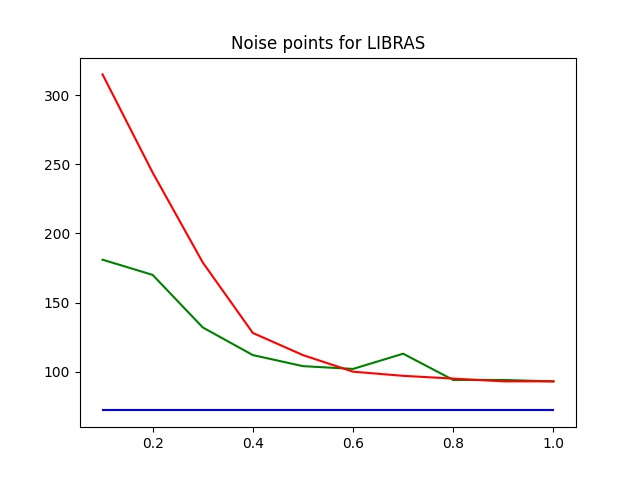
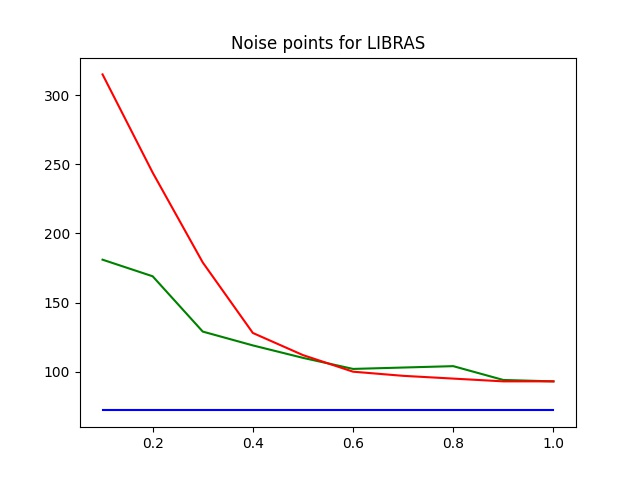
Performance figures

diff --git a/plot_data_factor_variation.py b/plot_data_factor_variation.py
@@ -18,35 +18,64 @@ def data_load(name):
     elif name == 'zoo':
         data = pd.read_csv('Results_small_data_factor/zoo_results_factor.csv')
 
-    epsilon = data.iloc[:, 0].values
-    noise_db = data.iloc[:, 2].values
-    noise_uni = data.iloc[:, 6].values
-    noise_kc = data.iloc[:, 10].values
-    acc_db = data.iloc[:, 3].values
-    acc_uni = data.iloc[:, 7].values
-    acc_kc = data.iloc[:, 11].values
-    return epsilon, noise_db, noise_uni, noise_kc, acc_db, acc_uni, acc_kc
+    factor = data['factor'].values
+    noise_db = data['n_noise_db'].values
+    noise_uni = data['n_noise_dbp_uni'].values
+    noise_kc = data['n_noise_dbp_kg'].values
+    acc_db = data['acc_db'].values
+    acc_uni = data['acc_dbp_uni'].values
+    acc_kc = data['acc_dbp_kg'].values
+    arand_db = data['ARAND_db'].values
+    arand_dbp_uni = data['ARAND_dbp_uni'].values
+    arand_dbp_kg = data['ARAND_dbp_kg'].values
+    amis_db = data['AMIS_db'].values
+    amis_dbp_uni = data['AMIS_dbp_uni'].values
+    amis_dbp_kg = data['AMIS_dbp_kg'].values
+    time_db = data['Exec_time_db'].values
+    time_dbp_uni = data['Exec_time_dbp_uni'].values
+    time_dbp_kg = data['Exec_time_dbp_kg'].values
+
+    return factor, noise_db, noise_uni, noise_kc, acc_db, acc_uni, acc_kc, arand_db, arand_dbp_uni, arand_dbp_kg, \
+           amis_db, amis_dbp_uni, amis_dbp_kg, time_db, time_dbp_uni, time_dbp_kg
 
 
 def main():
     names = 'iris', 'libras', 'mobile', 'seeds', 'spam', 'wine', 'zoo'
     for i in range(len(names)):
         name = names[i]
-        variation, noise_db, noise_uni, noise_kc, acc_db, acc_uni, acc_kc = data_load(name)
+        factor, noise_db, noise_uni, noise_kc, acc_db, acc_uni, acc_kc, arand_db, arand_dbp_uni, arand_dbp_kg, \
+        amis_db, amis_dbp_uni, amis_dbp_kg, time_db, time_dbp_uni, time_dbp_kg = data_load(name)
+
+        # plt.figure()
+        # plt.plot(factor, noise_db, 'b')  # dbscan (blue)
+        # plt.plot(factor, noise_uni, 'g')  # uniform (green)
+        # plt.plot(factor, noise_kc, 'r', )  # k-center (red)
+        # plt.title('Noise points for ' + str(name.upper()))
+        # plt.savefig('Results_small_data_factor/{0}_noise.jpg'.format(name))
 
         plt.figure()
-        plt.plot(variation, noise_db, 'b')  # dbscan (blue)
-        plt.plot(variation, noise_uni, 'g')  # uniform (green)
-        plt.plot(variation, noise_kc, 'r', )  # k-center (red)
-        plt.title('Noise points for ' + str(name.upper()))
-        plt.savefig('Results_small_data_factor/{0}_noise.jpg'.format(name))
+        plt.plot(factor, amis_dbp_uni, 'b')  # dbscan (blue)
+        plt.plot(factor, arand_dbp_uni, 'g')  # uniform (green)
+        plt.plot(factor, amis_dbp_kg, 'b--')  # dbscan (blue)
+        plt.plot(factor, arand_dbp_kg, 'g--')  # uniform (green)
+        # plt.plot(factor, time_dbp_uni, 'r')  # k-center (red)
+        plt.title('DBSCAN++ performance scores for ' + str(name.upper()))
+        plt.savefig('Results_small_data_factor/{0}_perf_score.jpg'.format(name))
 
-        plt.figure()
-        plt.plot(variation, acc_db, 'b')  # dbscan (blue)
-        plt.plot(variation, acc_uni, 'g')  # uniform (green)
-        plt.plot(variation, acc_kc, 'r')  # k-center (red)
-        plt.title('Accuracy Score for ' + str(name.upper()))
-        plt.savefig('Results_small_data_factor/{0}_accu_score.jpg'.format(name))
+        # plt.figure()
+        # plt.plot(factor, amis_dbp_kg, 'b')  # dbscan (blue)
+        # plt.plot(factor, arand_dbp_kg, 'g')  # uniform (green)
+        # # plt.plot(factor, time_dbp_uni, 'r')  # k-center (red)
+        # plt.title('DBSCAN++ K-center performance scores for ' + str(name.upper()))
+        # plt.savefig('Results_small_data_factor/{0}_perf_score_kc.jpg'.format(name))
+
+        # plt.figure()
+        # plt.plot(factor, time_db, 'b')  # dbscan (blue)
+        # plt.plot(factor, time_dbp_kg, 'g')  # uniform (green)
+        # plt.plot(factor, time_dbp_kg/10, 'r')  # k-center (red)
+        # plt.title('DBSCAN++  execution time for ' + str(name.upper()))
+        # plt.savefig('Results_small_data_factor/{0}_time.jpg'.format(name))
+
 
 
 if __name__ == '__main__':

diff --git a/factor_variations.py b/factor_variations.py
@@ -106,20 +106,23 @@ def results_out(dataset_name, data, x, labels_true, eps, listof_attributes, m, n
     exec_time_db = np.zeros(len(factor_range))
     n_clusters_db = np.zeros(len(factor_range))
     n_noise_db = np.zeros(len(factor_range))
-    acc_db = np.zeros(len(factor_range))  # Adjusted Rand Index
-    # amis_db = np.zeros(len(factor_range))  # Adjusted Mutual Information Score
+    acc_db = np.zeros(len(factor_range))
+    arand_db = np.zeros(len(factor_range))  # Adjusted Rand Index
+    amis_db = np.zeros(len(factor_range))  # Adjusted Mutual Information Score
 
     exec_time_dbp_uni = np.zeros(len(factor_range))
     n_clusters_dbp_uni = np.zeros(len(factor_range))
     n_noise_dbp_uni = np.zeros(len(factor_range))
-    acc_dbp_uni = np.zeros(len(factor_range))  # Adjusted Rand Index
-    # amis_dbp_uni = np.zeros(len(factor_range))  # Adjusted Mutual Information Score
+    acc_dbp_uni = np.zeros(len(factor_range))
+    arand_dbp_uni = np.zeros(len(factor_range))  # Adjusted Rand Index
+    amis_dbp_uni = np.zeros(len(factor_range))  # Adjusted Mutual Information Score
 
     exec_time_dbp_kg = np.zeros(len(factor_range))
     n_clusters_dbp_kg = np.zeros(len(factor_range))
     n_noise_dbp_kg = np.zeros(len(factor_range))
-    acc_dbp_kg = np.zeros(len(factor_range))  # Adjusted Rand Index
-    # amis_dbp_kg = np.zeros(len(factor_range))  # Adjusted Mutual Information Score
+    acc_dbp_kg = np.zeros(len(factor_range))
+    arand_dbp_kg = np.zeros(len(factor_range))  # Adjusted Rand Index
+    amis_dbp_kg = np.zeros(len(factor_range))  # Adjusted Mutual Information Score
 
     for i in range(len(factor_range)):
         factor = factor_range[i]
@@ -165,17 +168,20 @@ def results_out(dataset_name, data, x, labels_true, eps, listof_attributes, m, n
         acc_dbp_uni[i] = metrics.accuracy_score(labels_true, labels_dbp_uni)
         acc_dbp_kg[i] = metrics.accuracy_score(labels_true, labels_dbp_kg)
 
-        # amis_db[i] = metrics.adjusted_mutual_info_score(labels_true, labels_db)
-        # amis_dbp_uni[i] = metrics.adjusted_mutual_info_score(labels_true, labels_dbp_uni)
-        # amis_dbp_kg[i] = metrics.adjusted_mutual_info_score(labels_true, labels_dbp_kg)
+        arand_db[i] = metrics.adjusted_rand_score(labels_true, labels_db)
+        arand_dbp_uni[i] = metrics.adjusted_rand_score(labels_true, labels_dbp_uni)
+        arand_dbp_kg[i] = metrics.adjusted_rand_score(labels_true, labels_dbp_kg)
 
-    d = {'factor': factor_range,
-         'n_clusters_db': n_clusters_db, 'n_noise_db': n_noise_db,
-         'acc_db': acc_db,  'Exec_time_db': exec_time_db,
-         'n_clusters_dbp_uni': n_clusters_dbp_uni, 'n_noise_dbp_uni': n_noise_dbp_uni,
-         'acc_dbp_uni': acc_dbp_uni,  'Exec_time_dbp_uni': exec_time_dbp_uni,
-         'n_clusters_dbp_kg': n_clusters_dbp_kg, 'n_noise_dbp_kg': n_noise_dbp_kg,
-         'acc_dbp_kg': acc_dbp_kg,  'Exec_time_dbp_kg': exec_time_dbp_kg}
+        amis_db[i] = metrics.adjusted_mutual_info_score(labels_true, labels_db)
+        amis_dbp_uni[i] = metrics.adjusted_mutual_info_score(labels_true, labels_dbp_uni)
+        amis_dbp_kg[i] = metrics.adjusted_mutual_info_score(labels_true, labels_dbp_kg)
+
+    d = {'factor': factor_range, 'n_clusters_db': n_clusters_db, 'n_noise_db': n_noise_db, 'acc_db' : acc_db,
+         'ARAND_db': arand_db, 'AMIS_db': amis_db, 'Exec_time_db': exec_time_db,
+         'n_clusters_dbp_uni': n_clusters_dbp_uni, 'n_noise_dbp_uni': n_noise_dbp_uni, 'acc_dbp_uni' : acc_dbp_uni,
+         'ARAND_dbp_uni': arand_dbp_uni, 'AMIS_dbp_uni': amis_dbp_uni, 'Exec_time_dbp_uni': exec_time_dbp_uni,
+         'n_clusters_dbp_kg': n_clusters_dbp_kg, 'n_noise_dbp_kg': n_noise_dbp_kg, 'acc_dbp_kg' : acc_dbp_kg,
+         'ARAND_dbp_kg': arand_dbp_kg, 'AMIS_dbp_kg': amis_dbp_kg, 'Exec_time_dbp_kg': exec_time_dbp_kg}
     results = pd.DataFrame(d)
     print(results.head())
     results.to_csv('Results_small_data_factor/{0}_results_factor.csv'.format(dataset_name), index=False)

diff --git a/dbscan_sklearn_large.py b/dbscan_sklearn_large.py
@@ -224,7 +224,7 @@ def main():
          'ARAND_dbp_kg': arand_dbp_kg, 'AMIS_dbp_kg': amis_dbp_kg, 'Exec_time_dbp_kg': exec_time_dbp_kg}
     results = pd.DataFrame(d)
     print(results.head())
-    results.to_csv('Results_large_data/{0}_results.csv'.format(dataset_name))
+    results.to_csv('Results_large_data/{0}_results.csv'.format(dataset_name), index=False)
 
 
 if __name__ == '__main__':
